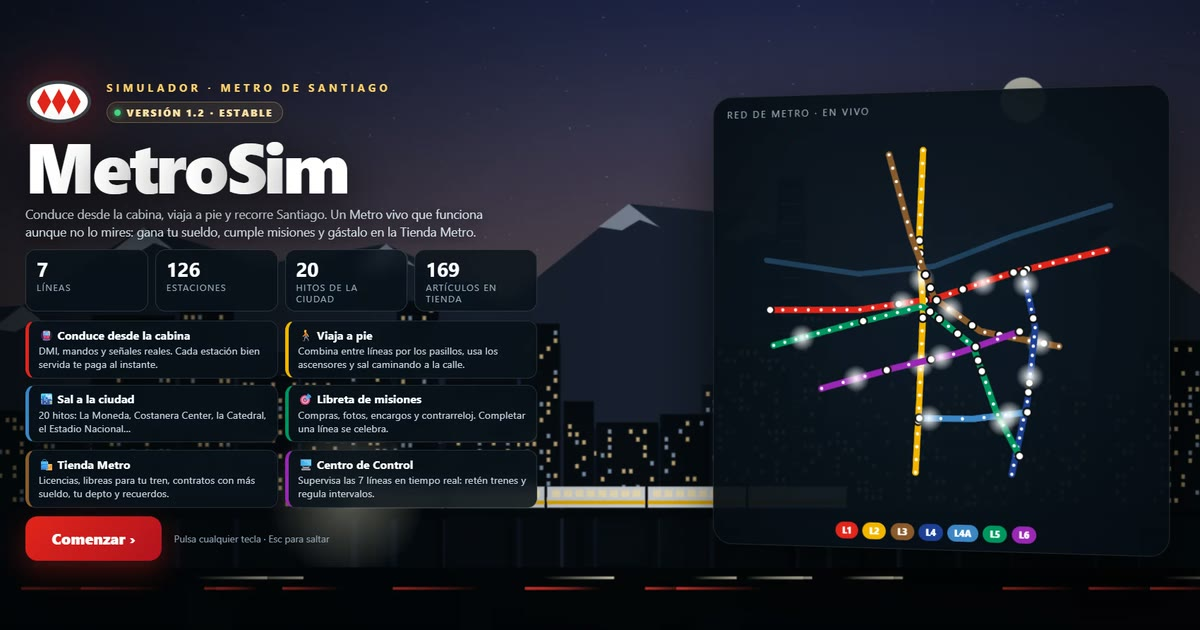
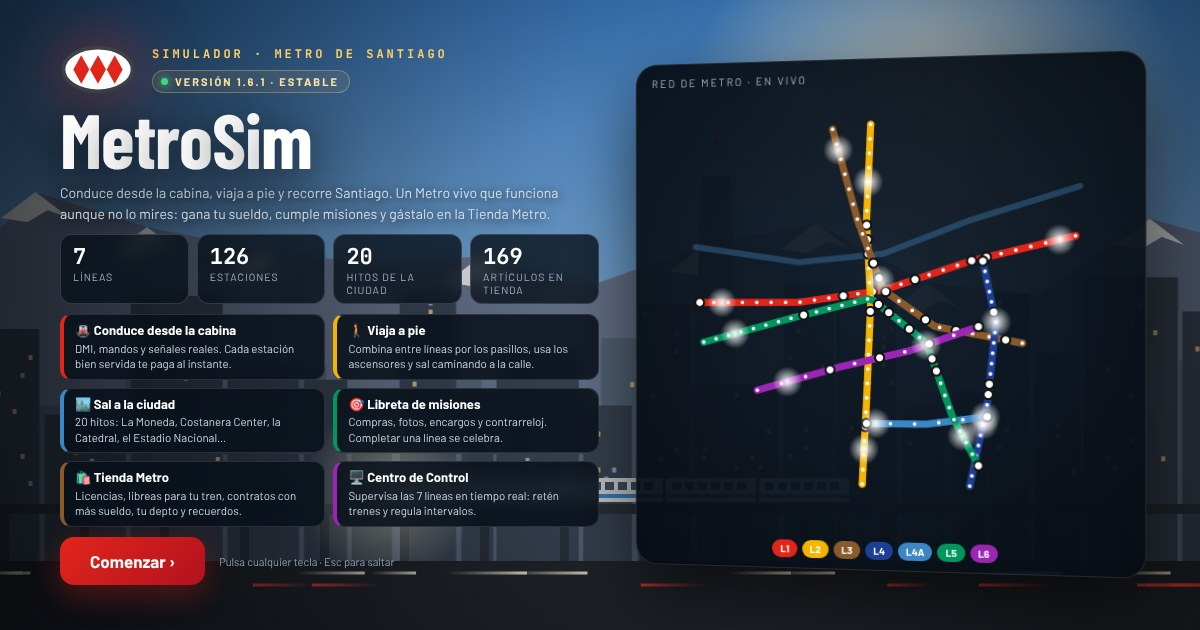
Versión 1.6.2: dominio metrosim.app e imagen og.jpg actualizada
Claude-Session: https://claude.ai/code/session_01XEKfghmeEzrNy3BcBZ4TVW

diff --git a/index.html b/index.html
@@ -7,15 +7,15 @@
   <!-- Difusión: descripción para buscadores y vista previa al compartir el enlace (WhatsApp, X, Discord...) -->
   <meta name="description" content="Simulador 3D gratuito del Metro de Santiago de Chile en el navegador y el celular: conduce trenes, viaja como pasajero o dirige el Centro de Control en las 7 líneas reales (1, 2, 3, 4, 4A, 5 y 6). Sin descargas.">
   <meta name="robots" content="index, follow, max-image-preview:large">
-  <link rel="canonical" href="https://metrosimulator.vercel.app/">
+  <link rel="canonical" href="https://metrosim.app/">
   <meta name="author" content="MetroSim">
   <meta name="application-name" content="MetroSim">
   <meta property="og:type" content="website">
   <meta property="og:site_name" content="MetroSim">
   <meta property="og:title" content="MetroSim · Simulador del Metro de Santiago">
   <meta property="og:description" content="Conduce, viaja o dirige el Metro de Santiago en 3D. Gratis, en el navegador y en el celular.">
-  <meta property="og:url" content="https://metrosimulator.vercel.app/">
-  <meta property="og:image" content="https://metrosimulator.vercel.app/icons/og.jpg">
+  <meta property="og:url" content="https://metrosim.app/">
+  <meta property="og:image" content="https://metrosim.app/icons/og.jpg">
   <meta property="og:image:width" content="1200">
   <meta property="og:image:height" content="630">
   <meta property="og:image:alt" content="Portada de MetroSim con el mapa de las 7 líneas del Metro de Santiago">
@@ -23,7 +23,7 @@
   <meta name="twitter:card" content="summary_large_image">
   <meta name="twitter:title" content="MetroSim · Simulador del Metro de Santiago">
   <meta name="twitter:description" content="Conduce, viaja o dirige el Metro de Santiago en 3D. Gratis, en el navegador y en el celular.">
-  <meta name="twitter:image" content="https://metrosimulator.vercel.app/icons/og.jpg">
+  <meta name="twitter:image" content="https://metrosim.app/icons/og.jpg">
   <!-- Datos estructurados (schema.org) para que Google entienda que es un juego web gratuito -->
   <script type="application/ld+json">
   {
@@ -31,18 +31,18 @@
     "@graph": [
       {
         "@type": "WebSite",
-        "@id": "https://metrosimulator.vercel.app/#website",
-        "url": "https://metrosimulator.vercel.app/",
+        "@id": "https://metrosim.app/#website",
+        "url": "https://metrosim.app/",
         "name": "MetroSim",
         "alternateName": ["MetroSim Santiago", "Simulador del Metro de Santiago"],
         "inLanguage": "es-CL"
       },
       {
         "@type": ["VideoGame", "WebApplication"],
-        "@id": "https://metrosimulator.vercel.app/#game",
+        "@id": "https://metrosim.app/#game",
         "name": "MetroSim · Simulador del Metro de Santiago",
-        "url": "https://metrosimulator.vercel.app/",
-        "image": "https://metrosimulator.vercel.app/icons/og.jpg",
+        "url": "https://metrosim.app/",
+        "image": "https://metrosim.app/icons/og.jpg",
         "description": "Simulador 3D gratuito del Metro de Santiago de Chile: conduce trenes, viaja como pasajero o dirige el Centro de Control en las líneas 1, 2, 3, 4, 4A, 5 y 6. Funciona en el navegador, en el celular y como app instalable, con multijugador.",
         "inLanguage": "es-CL",
         "genre": ["Simulación", "Simulador de trenes"],
@@ -52,7 +52,7 @@
         "playMode": ["SinglePlayer", "MultiPlayer"],
         "isAccessibleForFree": true,
         "offers": { "@type": "Offer", "price": "0", "priceCurrency": "CLP" },
-        "isPartOf": { "@id": "https://metrosimulator.vercel.app/#website" }
+        "isPartOf": { "@id": "https://metrosim.app/#website" }
       }
     ]
   }
@@ -98,7 +98,7 @@
         <header class="start-brand">
           <img class="metro-mark" src="logo.svg" alt="">
           <h1>MetroSim</h1>
-          <span class="start-ver">v1.6.1</span>
+          <span class="start-ver">v1.6.2</span>
         </header>
         <div class="start-hero">
           <p class="eyebrow">Simulador del Metro de Santiago</p>

diff --git a/sw.js b/sw.js
@@ -14,7 +14,7 @@
    sin conexión.
    ========================================================================== */
 
-const CACHE = "metrosim-v1.6.1";
+const CACHE = "metrosim-v1.6.2";
 const CDN = ["cdn.jsdelivr.net", "unpkg.com"];
 
 /** Lo mínimo para que la portada abra sin conexión aunque no se haya jugado. */

diff --git a/js/config.js b/js/config.js
@@ -26,7 +26,7 @@
    y curva de demanda horaria de un día real de Santiago.
    ========================================================================== */
 
-export const VERSION = "1.6.1";
+export const VERSION = "1.6.2";
 
 /* ---------- Colores oficiales de las líneas ---------- */
 export const LINE_COLORS = {

diff --git a/docs/DIFUSION.md b/docs/DIFUSION.md
@@ -1,6 +1,6 @@
 # Kit de difusión · MetroSim
 
-Enlace del juego: **https://metrosimulator.vercel.app/**
+Enlace del juego: **https://metrosim.app/**
 Código: https://github.com/jorge733/MetroSim
 
 ---
@@ -42,7 +42,7 @@ Hecho por una persona, con HTML, JavaScript y Three.js. Código abierto en GitHu
 > Llevo un tiempo armando MetroSim: puedes manejar un tren de la L3 con física real, viajar como
 > pasajero desde la calle hasta el andén, o dirigir la red desde un Centro de Control. Están las
 > 7 líneas y usa la hora real (si es hora punta, los andenes se llenan).
-> Juégalo aquí: https://metrosimulator.vercel.app/
+> Juégalo aquí: https://metrosim.app/
 > Es un proyecto personal y abierto; cualquier comentario o error que encuentren me sirve mucho. 🚇
 
 *Revisar las reglas de cada subreddit (algunos piden flair "OC" o solo permiten autopromoción ciertos días).*
@@ -52,7 +52,7 @@ Hecho por una persona, con HTML, JavaScript y Three.js. Código abierto en GitHu
 > MetroSim runs in any browser (and on phones). Drive a real-spec AS-2014 train with force-based
 > physics, regenerative braking and real gradients; ride as a passenger from street to platform;
 > or run the network from a control center. All 7 lines, real local time, offline PWA.
-> Play: https://metrosimulator.vercel.app/ · Source: https://github.com/jorge733/MetroSim
+> Play: https://metrosim.app/ · Source: https://github.com/jorge733/MetroSim
 > (UI is in Spanish for now.)
 
 *En r/threejs funciona mejor contar el truco técnico: las pendientes se doblan en el shader con una
@@ -69,11 +69,11 @@ Hashtags: `#MetroDeSantiago #Santiago #Chile #Simulador #IndieDev #GameDev #Tren
 ### X / Bluesky / Mastodon
 > Hice MetroSim 🚇 un simulador 3D del Metro de Santiago que se juega en el navegador:
 > conduce, viaja como pasajero o dirige la red. Gratis y en el celular.
-> 👉 https://metrosimulator.vercel.app/ #gamedev #indiedev #MetroDeSantiago
+> 👉 https://metrosim.app/ #gamedev #indiedev #MetroDeSantiago
 
 ### WhatsApp / Discord (amigos, grupos de trenes)
 > Oigan, hice un juego del Metro de Santiago 🚇 se juega en el navegador o el celu, sin instalar:
-> https://metrosimulator.vercel.app/ — díganme qué les parece o si algo falla 🙏
+> https://metrosim.app/ — díganme qué les parece o si algo falla 🙏
 
 ## 4. Dónde más publicarlo
 

diff --git a/README.md b/README.md
@@ -140,6 +140,11 @@ Ayudas para no pasarse de la estación (`js/engine/stopAssist.js`; se activan o 
 - `robots.txt` y `sitemap.xml` en la raíz para que Google descubra y rastree el sitio.
 - Texto `<noscript>` que describe el juego para buscadores sin JavaScript; etiquetas de X/Twitter completas.
 
+### 1.6.2 · Dominio propio e imagen para compartir
+
+- Enlace canónico, datos estructurados, `robots.txt` y `sitemap.xml` apuntan al dominio **https://metrosim.app/**.
+- Nueva `icons/og.jpg` (1200×630, vista previa al compartir el enlace) con la intro de la versión actual.
+
 ## Versión 1.5 · Realismo de la red
 
 - **El tren real de cada línea** (`js/engine/fleet.js`): las líneas 1, 2 y 5 usan trenes de **neumáticos** de Alstom
